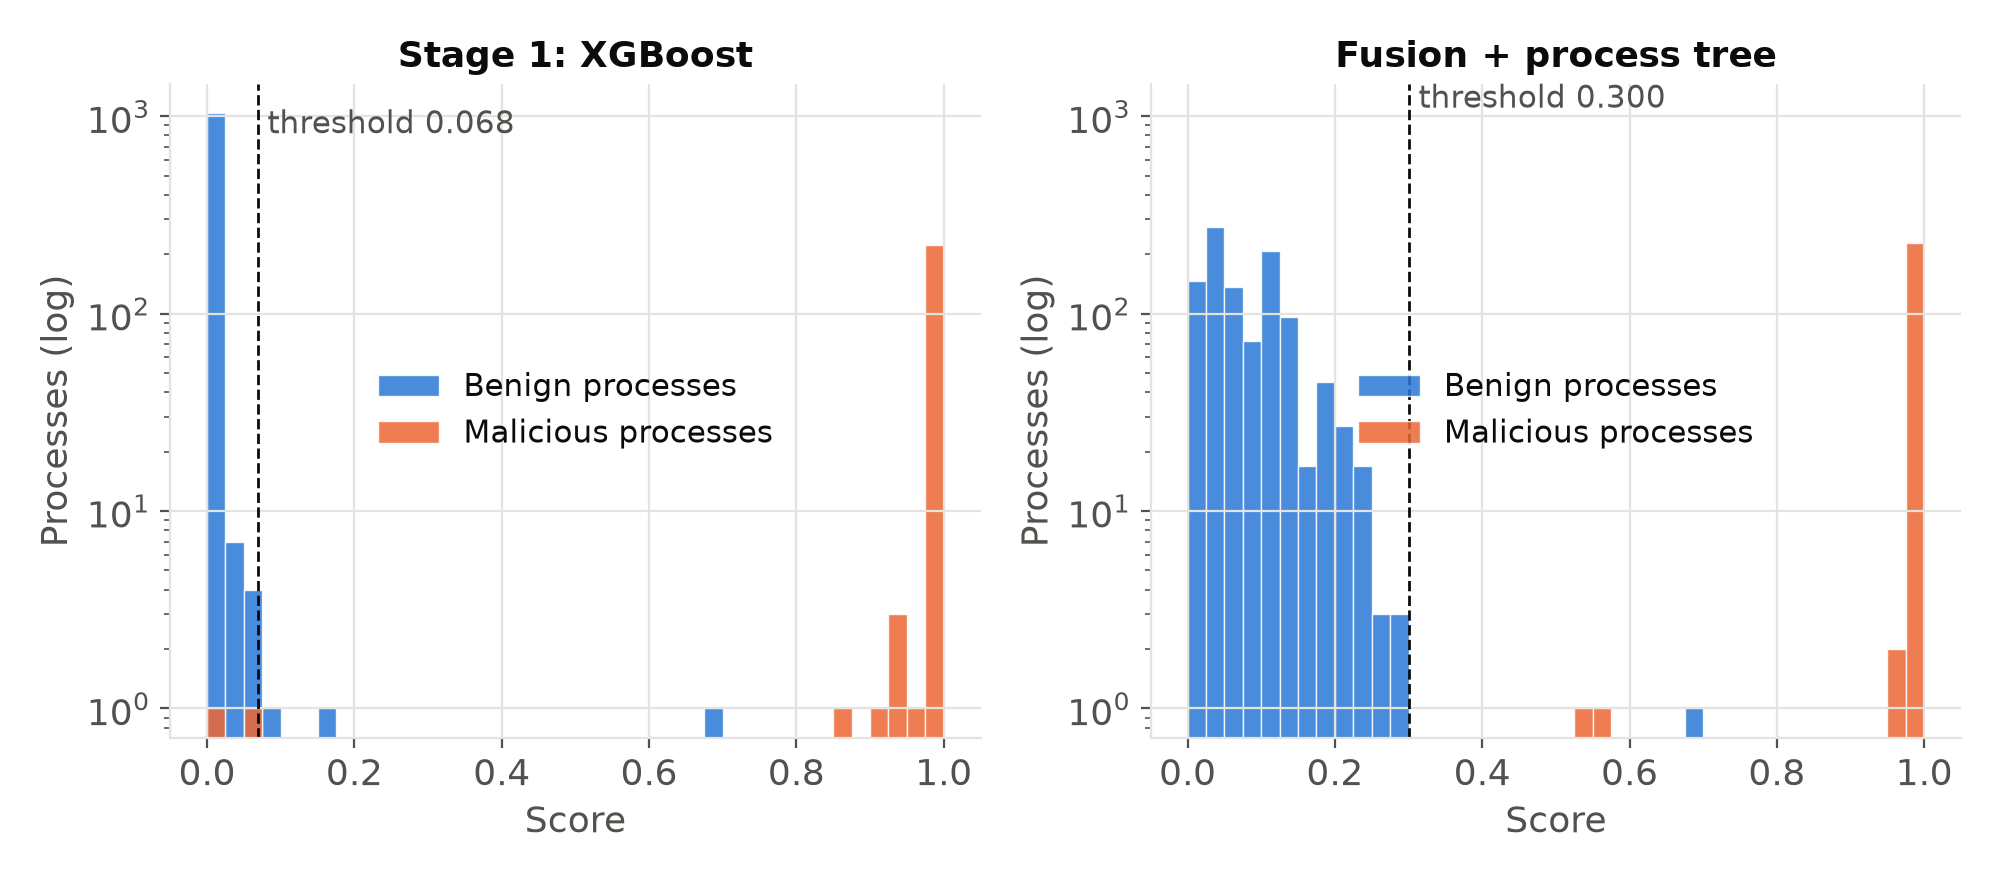
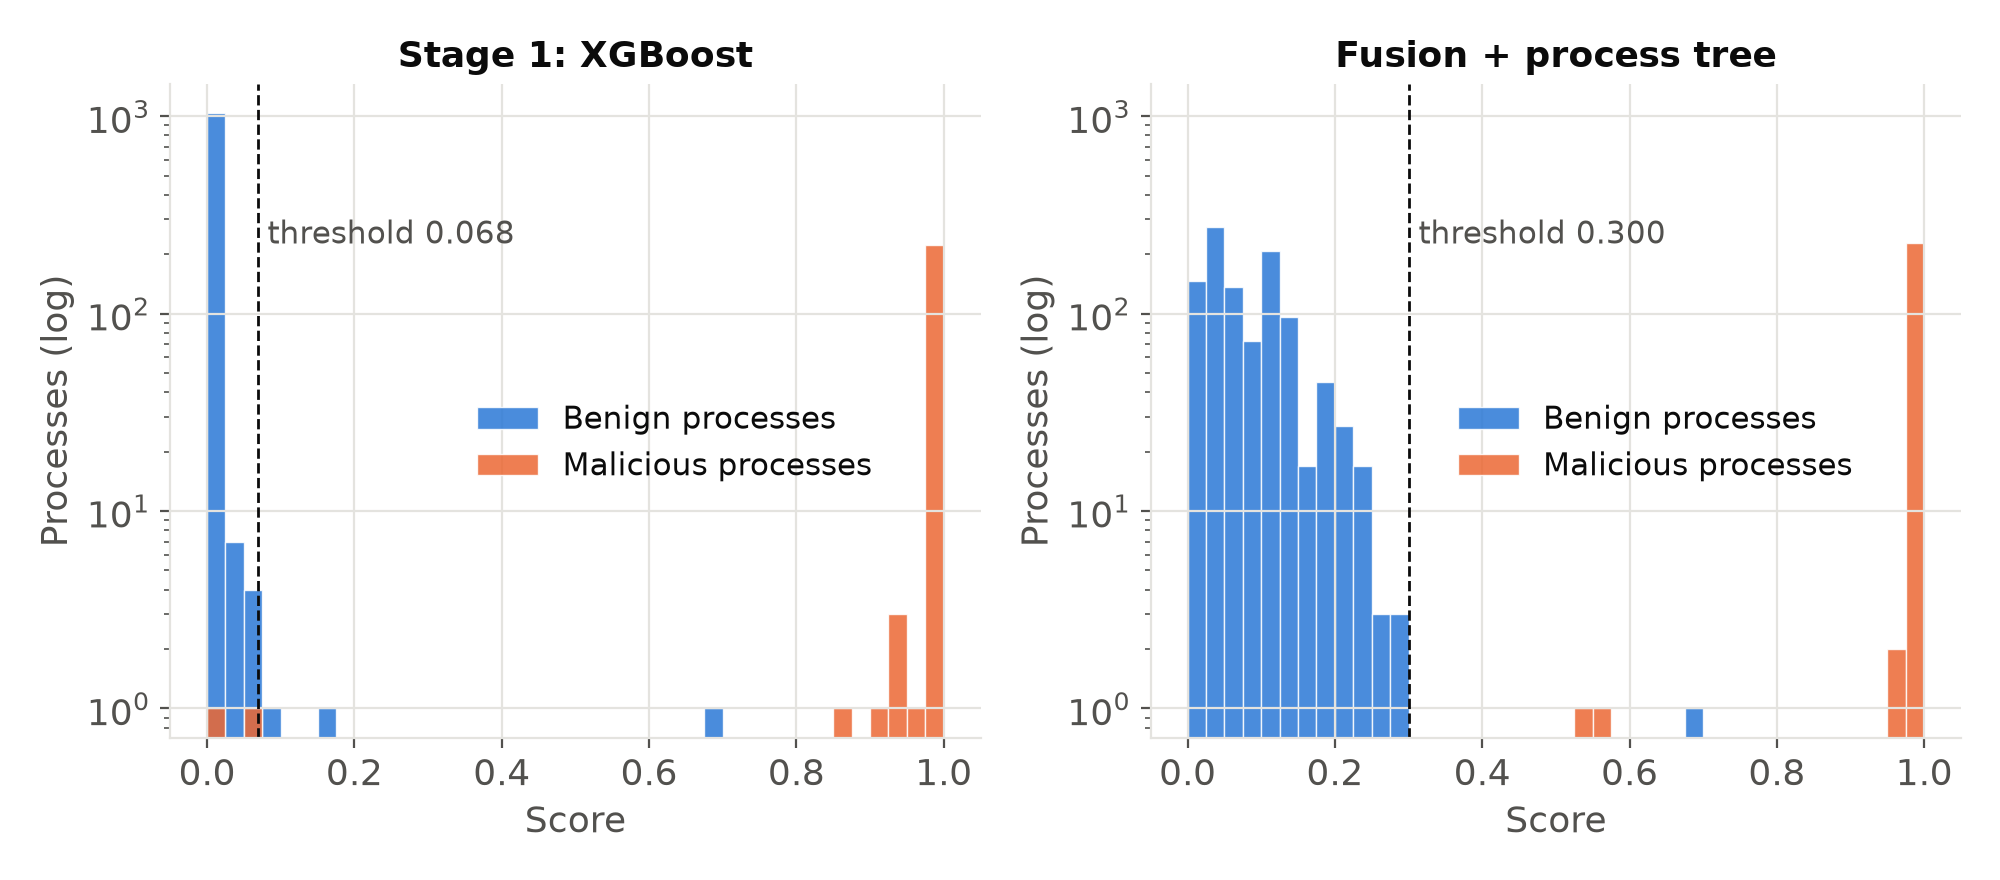
Updated thesis
Update before review

diff --git a/results.py b/results.py
@@ -151,7 +151,7 @@ def fig_roc_pr(pred: pd.DataFrame, rep: dict, fdir: Path):
         axes[1].plot(r, p, color=SERIES[i], ls=ls, lw=lw)
     axes[0].set_xscale("log"); axes[0].set_xlim(1e-4, 1)
     axes[0].axvline(rep["target_fpr"], color=TEXT2, lw=1, ls="--")
-    axes[0].text(rep["target_fpr"] * 1.15, 0.5, f"target FPR\n{rep['target_fpr']:g}", color=TEXT2, fontsize=11)
+    axes[0].text(rep["target_fpr"] * 1.15, 0.75, f"target FPR\n{rep['target_fpr']:g}", color=TEXT2, fontsize=11)
     axes[0].set(title="ROC curve (log FPR)", xlabel="False positive rate", ylabel="True positive rate")
     axes[1].set(title="Precision-recall curve", xlabel="Recall", ylabel="Precision")
     for ax in axes:
@@ -176,11 +176,11 @@ def fig_scores(pred: pd.DataFrame, rep: dict, fdir: Path):
                 edgecolor=SURFACE, linewidth=0.5)
         thr = rep["thresholds_from_validation"][st]
         ax.axvline(thr, color=TEXT, lw=1, ls="--")
-        ax.text(thr, ax.get_ylim()[1] if ax.get_ylim()[1] > 1 else 1, f" threshold {thr:.3f}", fontsize=11,
+        ax.text(thr, 300, f" threshold {thr:.3f}", fontsize=11,
                 color=TEXT2, va="top")
         ax.set_yscale("log")
         ax.set(title=STAGE_NAME[st], xlabel="Score", ylabel="Processes (log)")
-        ax.legend(fontsize=11, loc="center")
+        ax.legend(fontsize=11, loc="center right", bbox_to_anchor=(0.9, 0.45))
     axes[1].tick_params(labelleft=True)
     save(fig, fdir / "score_distributions.png")
 

diff --git a/results/README.md b/results/README.md
@@ -1,6 +1,6 @@
 # Results package
 
-Generated by `python results.py` on 2026-11-22 21:13 UTC. All numbers come from the files in this folder;
+Generated by `python results.py` on 2026-11-23 05:55 UTC. All numbers come from the files in this folder;
 nothing is typed in by hand. Text, tables and figures are in English.
 
 ## Headline (test set, fusion + process-tree aggregation)
